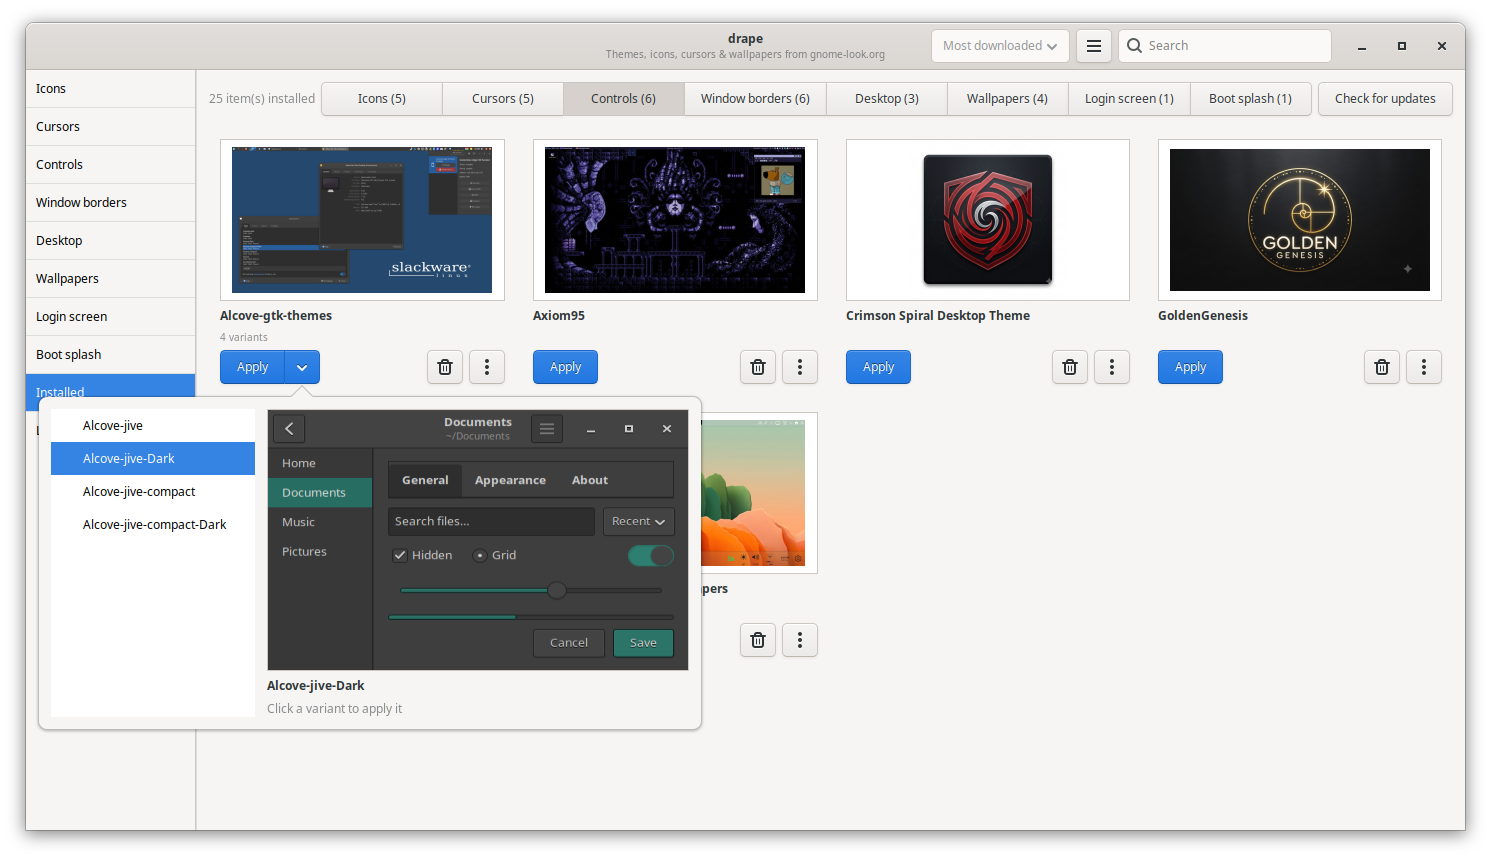
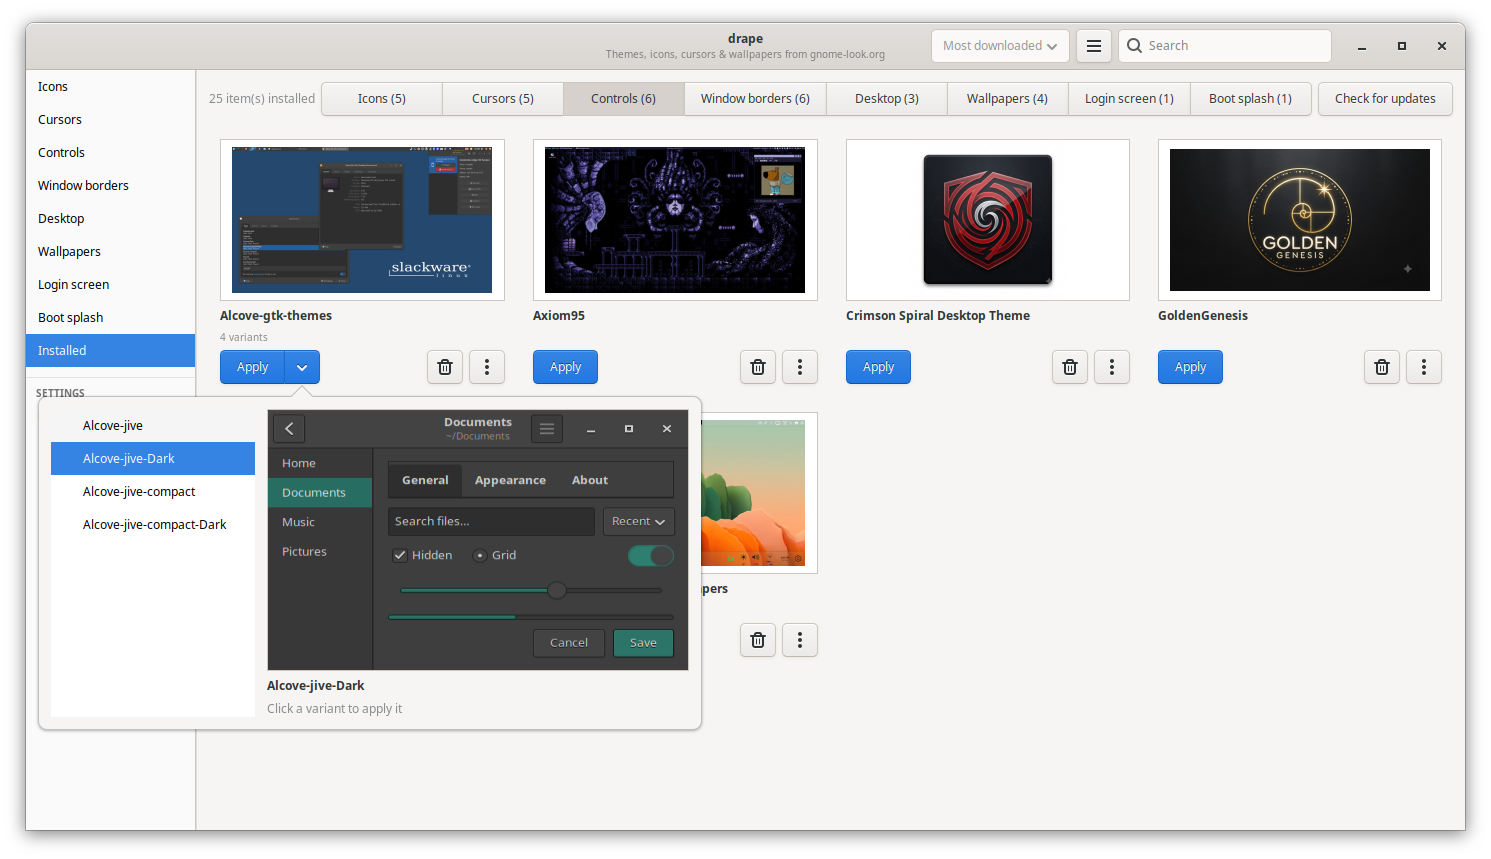
Sidebar: 'Settings' divider between theme pages and settings pages
Pages above the divider are for finding and applying themes; pages
below it (Lock & login) are settings. Replaces Gtk.StackSidebar, which
can't show section headers, with an equivalent list that can.

Changed region(s): [[0.0, 0.0908, 0.1543, 0.4843]]

diff --git a/drape/app.py b/drape/app.py
@@ -957,8 +957,7 @@ class Window(Gtk.ApplicationWindow):
         self.stack.add_titled(self.lockpage, "lock", "Lock & login")
         self.stack.connect("notify::visible-child", lambda *_: self.on_page())
 
-        side = Gtk.StackSidebar(stack=self.stack)
-        side.set_size_request(170, -1)
+        side = self._sidebar()
         paned = Gtk.Box()
         paned.pack_start(side, False, False, 0)
         paned.pack_start(Gtk.Separator(orientation=Gtk.Orientation.VERTICAL), False, False, 0)
@@ -976,6 +975,59 @@ class Window(Gtk.ApplicationWindow):
         self.add(root)
         self.show_all()
         self.on_page()
+
+    # pages below the "Settings" divider in the sidebar; everything above is for finding and applying themes
+    SETTINGS_PAGES = ("lock",)
+
+    def _sidebar(self):
+        """Like Gtk.StackSidebar, plus a labelled divider between theme pages and settings pages."""
+        lb = Gtk.ListBox(selection_mode=Gtk.SelectionMode.BROWSE)
+        lb.get_style_context().add_class("sidebar")
+        rows = {}
+        for child in self.stack.get_children():
+            name = self.stack.child_get_property(child, "name")
+            row = Gtk.ListBoxRow()
+            row.page = name
+            row.add(Gtk.Label(label=self.stack.child_get_property(child, "title"), xalign=0,
+                              margin=6, margin_start=10, margin_end=10))
+            lb.add(row)
+            rows[name] = row
+
+        def header(row, before):
+            if row.page in self.SETTINGS_PAGES and (before is None or before.page not in self.SETTINGS_PAGES):
+                box = Gtk.Box(orientation=Gtk.Orientation.VERTICAL, spacing=4, margin_top=10)
+                box.pack_start(Gtk.Separator(), False, False, 0)
+                label = Gtk.Label(xalign=0, margin_start=10, margin_top=4)
+                label.set_markup("<small><b>SETTINGS</b></small>")
+                label.get_style_context().add_class("dim-label")
+                box.pack_start(label, False, False, 0)
+                box.show_all()
+                row.set_header(box)
+            else:
+                row.set_header(None)
+        lb.set_header_func(header)
+
+        syncing = {"on": False}
+
+        def selected(_lb, row):
+            if row and not syncing["on"]:
+                self.stack.set_visible_child_name(row.page)
+        lb.connect("row-selected", selected)
+
+        def follow(*_):
+            # keep the highlight right when a page is opened some other way (e.g. after an install link)
+            row = rows.get(self.stack.get_visible_child_name())
+            if row and lb.get_selected_row() is not row:
+                syncing["on"] = True
+                lb.select_row(row)
+                syncing["on"] = False
+        self.stack.connect("notify::visible-child", follow)
+        follow()
+
+        sw = Gtk.ScrolledWindow(hscrollbar_policy=Gtk.PolicyType.NEVER)
+        sw.set_size_request(170, -1)
+        sw.add(lb)
+        return sw
 
     # ------------------------------------------------------------ helpers
     def _toggle_applicable(self, item):
